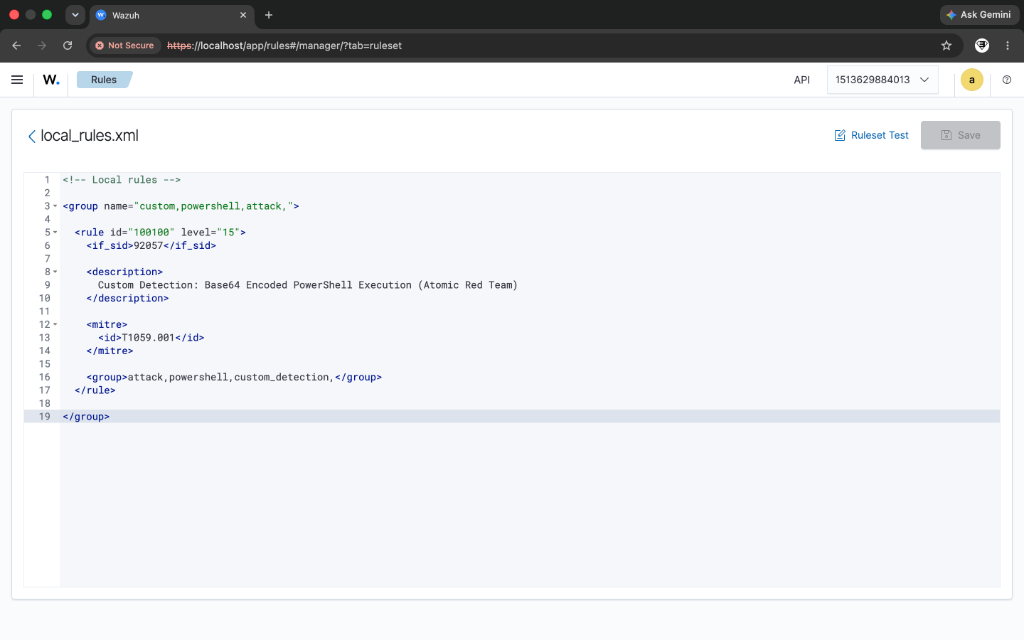
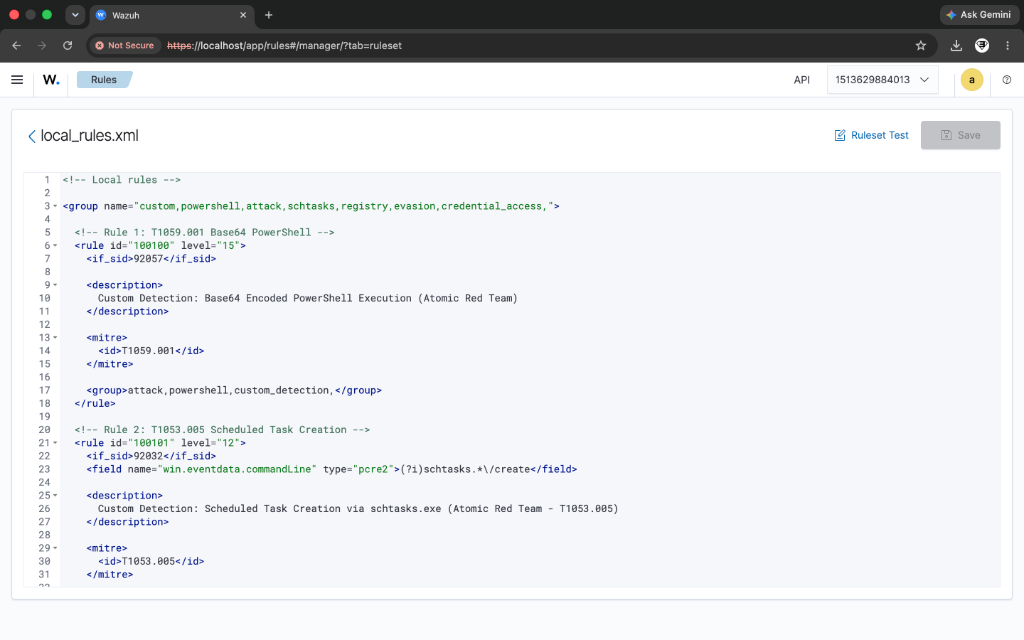
Update incident reports and repository with exact alert document detail screenshots

Changed region(s): [[0.0, 0.3125, 1.0, 0.9062], [0.9062, 0.0625, 0.9375, 0.0938], [0.5625, 0.7812, 0.5938, 0.8125]]

diff --git a/incident_reports/IR-001_T1059.001_PowerShell_Obfuscation.md b/incident_reports/IR-001_T1059.001_PowerShell_Obfuscation.md
@@ -8,8 +8,11 @@ A high-severity alert was generated on endpoint `WIN11-TARGET` indicating the ex
 
 ### 📷 Visual Evidence & Alert Verification
 
-![Wazuh PowerShell Alert View](../screenshots/powershell_alert.png)
-*Figure 1.1: Raw JSON alert and detection metadata firing in Wazuh SIEM for Rule 100100.*
+![Wazuh PowerShell Alert Document Details](../screenshots/powershell_alert.png)
+*Figure 1.1: Document details for Rule 100100 capturing obfuscated Base64 PowerShell execution.*
+
+![Raw JSON Alert Details](../screenshots/powershell_json_alert.png)
+*Figure 1.2: Raw JSON log structure forwarding process creation parameters into Wazuh SIEM.*
 
 ---
 

diff --git a/incident_reports/IR-002_T1053.005_Scheduled_Task_Persistence.md b/incident_reports/IR-002_T1053.005_Scheduled_Task_Persistence.md
@@ -8,8 +8,11 @@ A high-priority detection alert was triggered on `WIN11-TARGET` following the cr
 
 ### 📷 Visual Evidence & Alert Verification
 
-![Scheduled Task Alert View](../screenshots/scheduled_task.png)
-*Figure 2.1: Scheduled Task creation detection (Rule 100101) captured in Wazuh Dashboard.*
+![Scheduled Task Alert Table View](../screenshots/scheduled_task.png)
+*Figure 2.1: Scheduled Task creation telemetry (Rule 100101) captured in Discover Table view.*
+
+![Scheduled Task JSON Alert Details](../screenshots/scheduled_task_json.png)
+*Figure 2.2: Raw JSON structure showing schtasks command line arguments and process parameters.*
 
 ---
 
